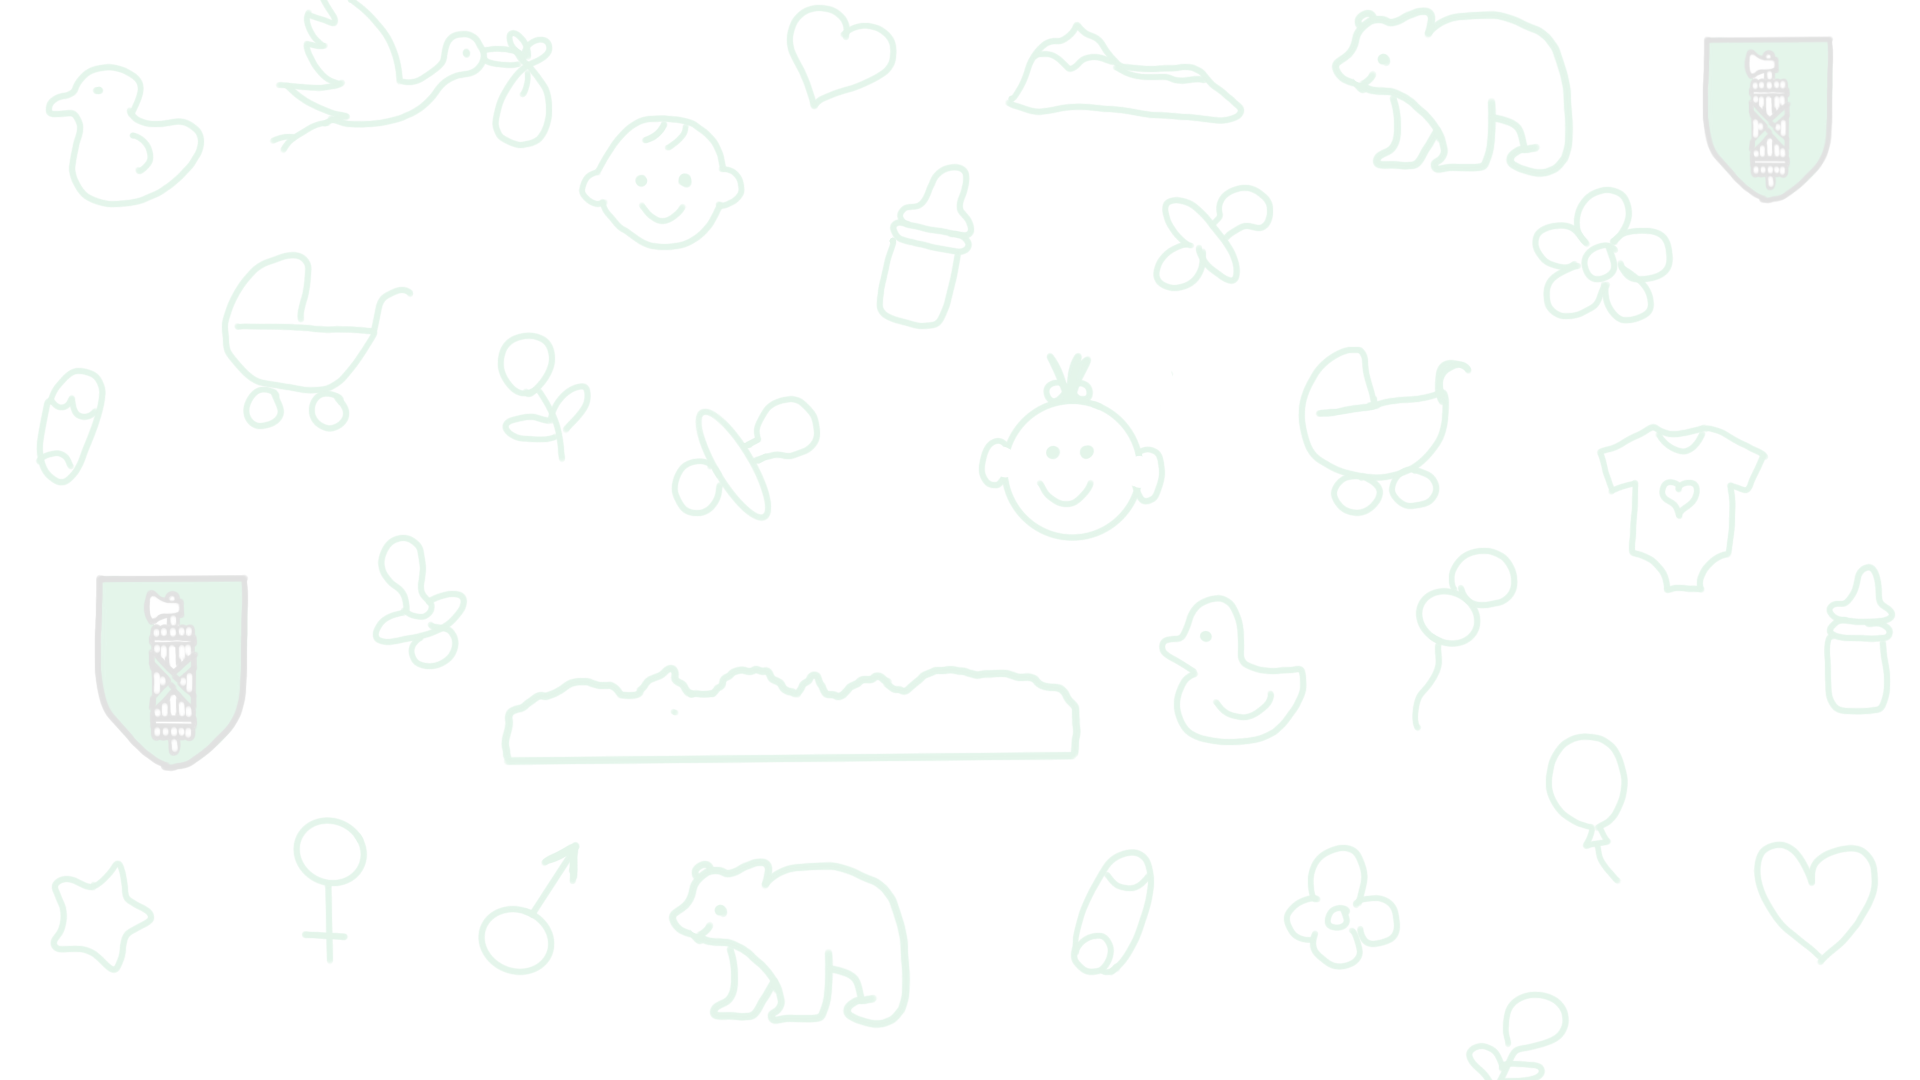
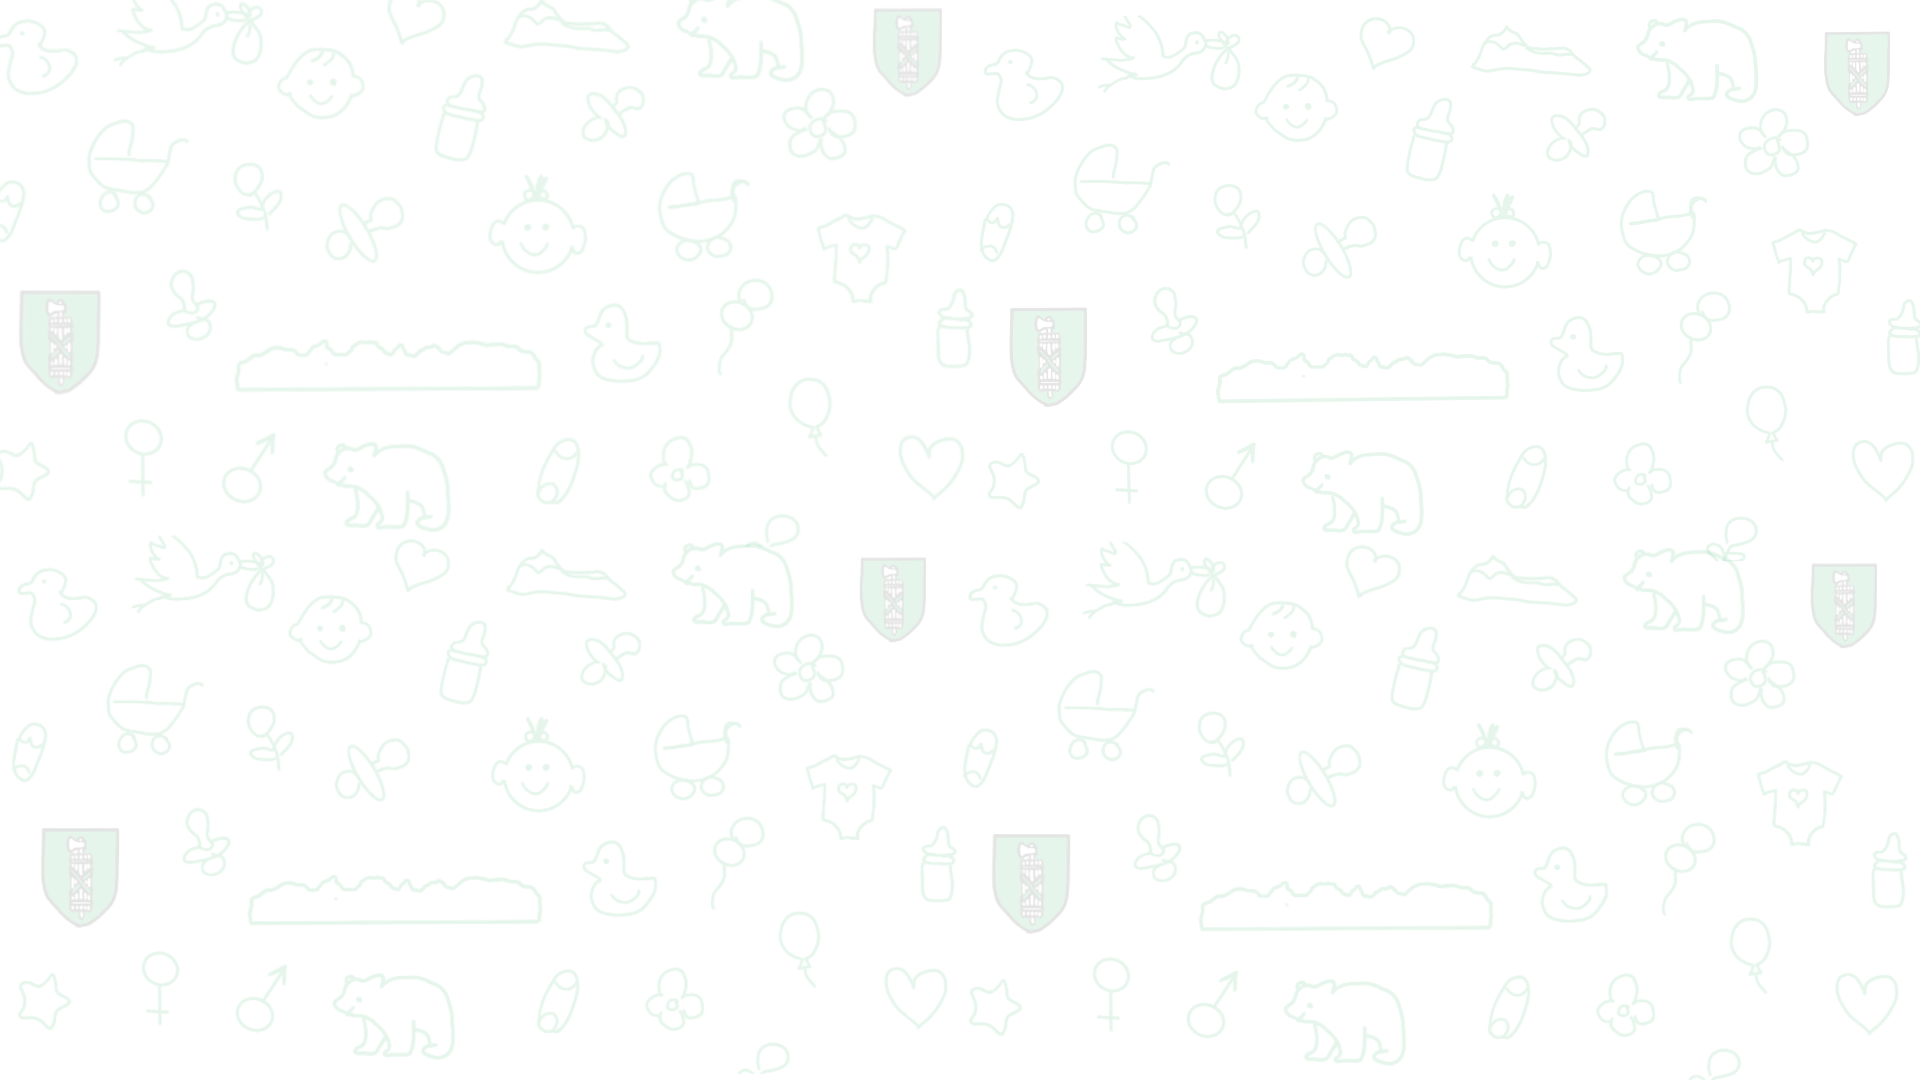
12:30

diff --git a/style.css b/style.css
@@ -2,8 +2,7 @@ body {
   margin: 0;
   background-color: #fcf9ef;
   background-image: url(Hintergrund.png);
-  background-size: cover;                /* Bild füllt den Bildschirm */
-  background-repeat: no-repeat;           /* Bild wird nicht gekachelt */
+  background-size:cover;                /* Bild füllt den Bildschirm */    /* Bild wird nicht gekachelt */
   background-position: center center;
 }
 
@@ -80,8 +79,9 @@ p{
 
 fieldset {
   margin-left: 50px;
- 
- 
+  background-color: #fcf9ef;
+  padding-left: 50px;
+  border-color: #ede2d2;
   border-style: solid;
   margin: 20px 0;
 
